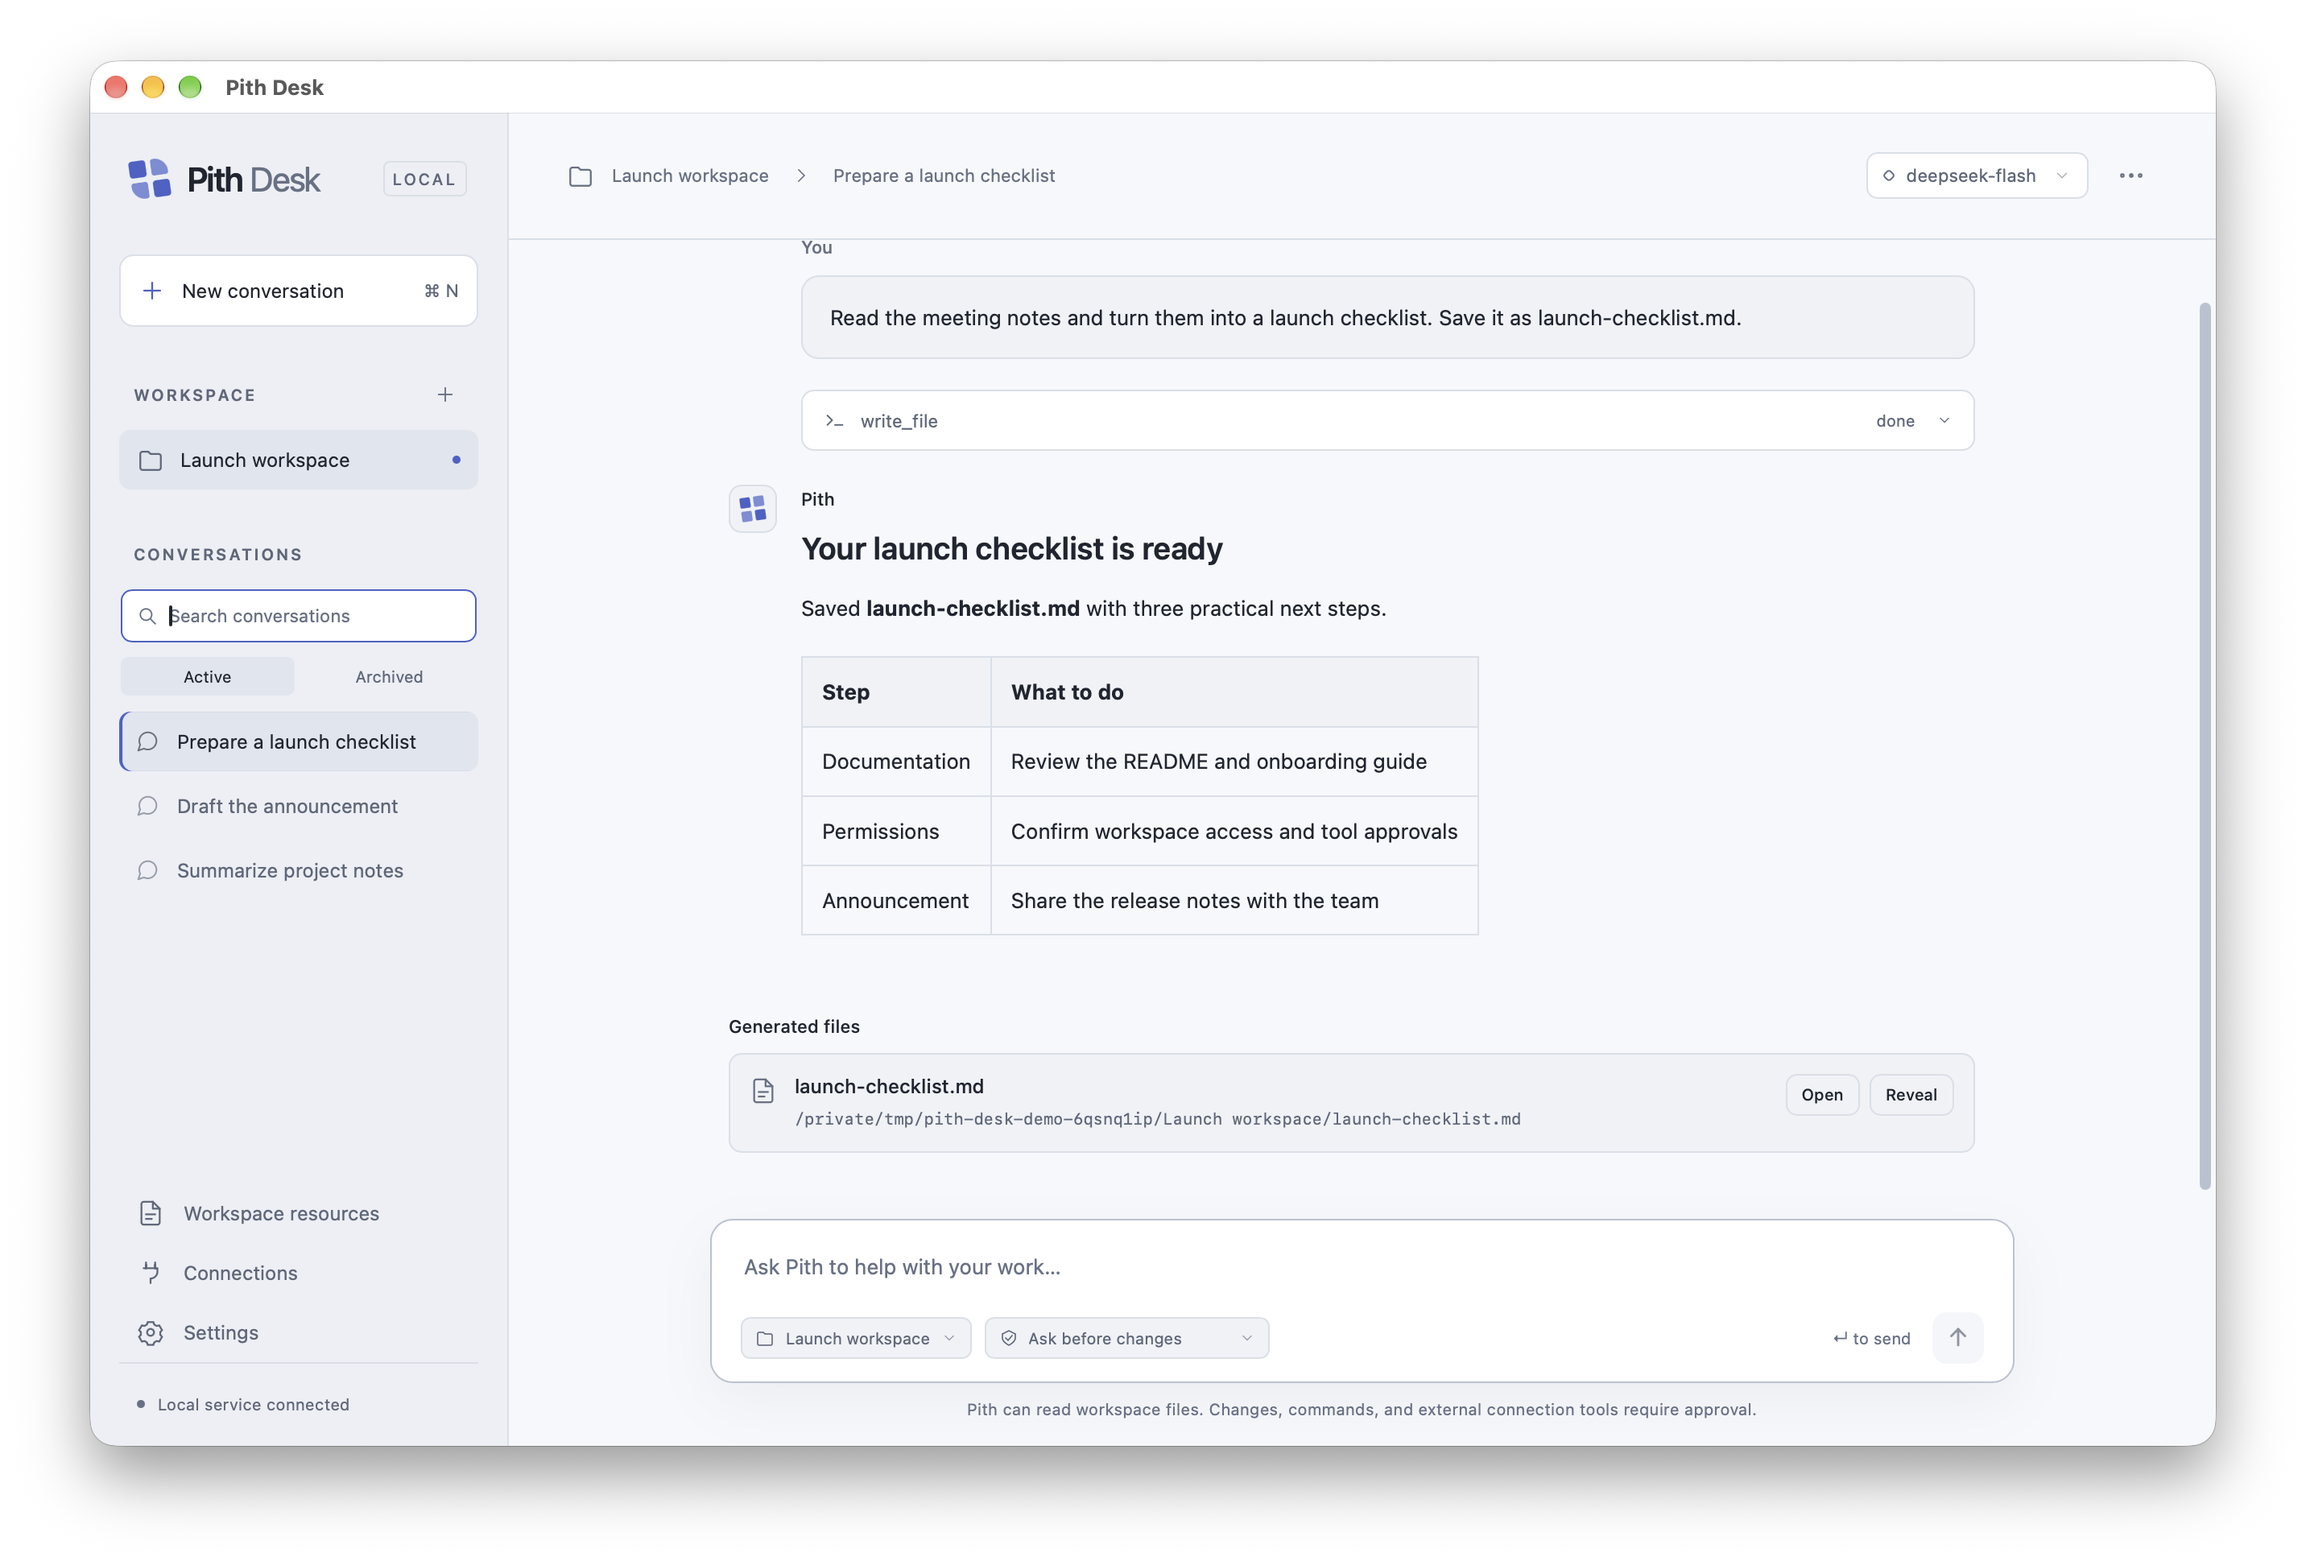
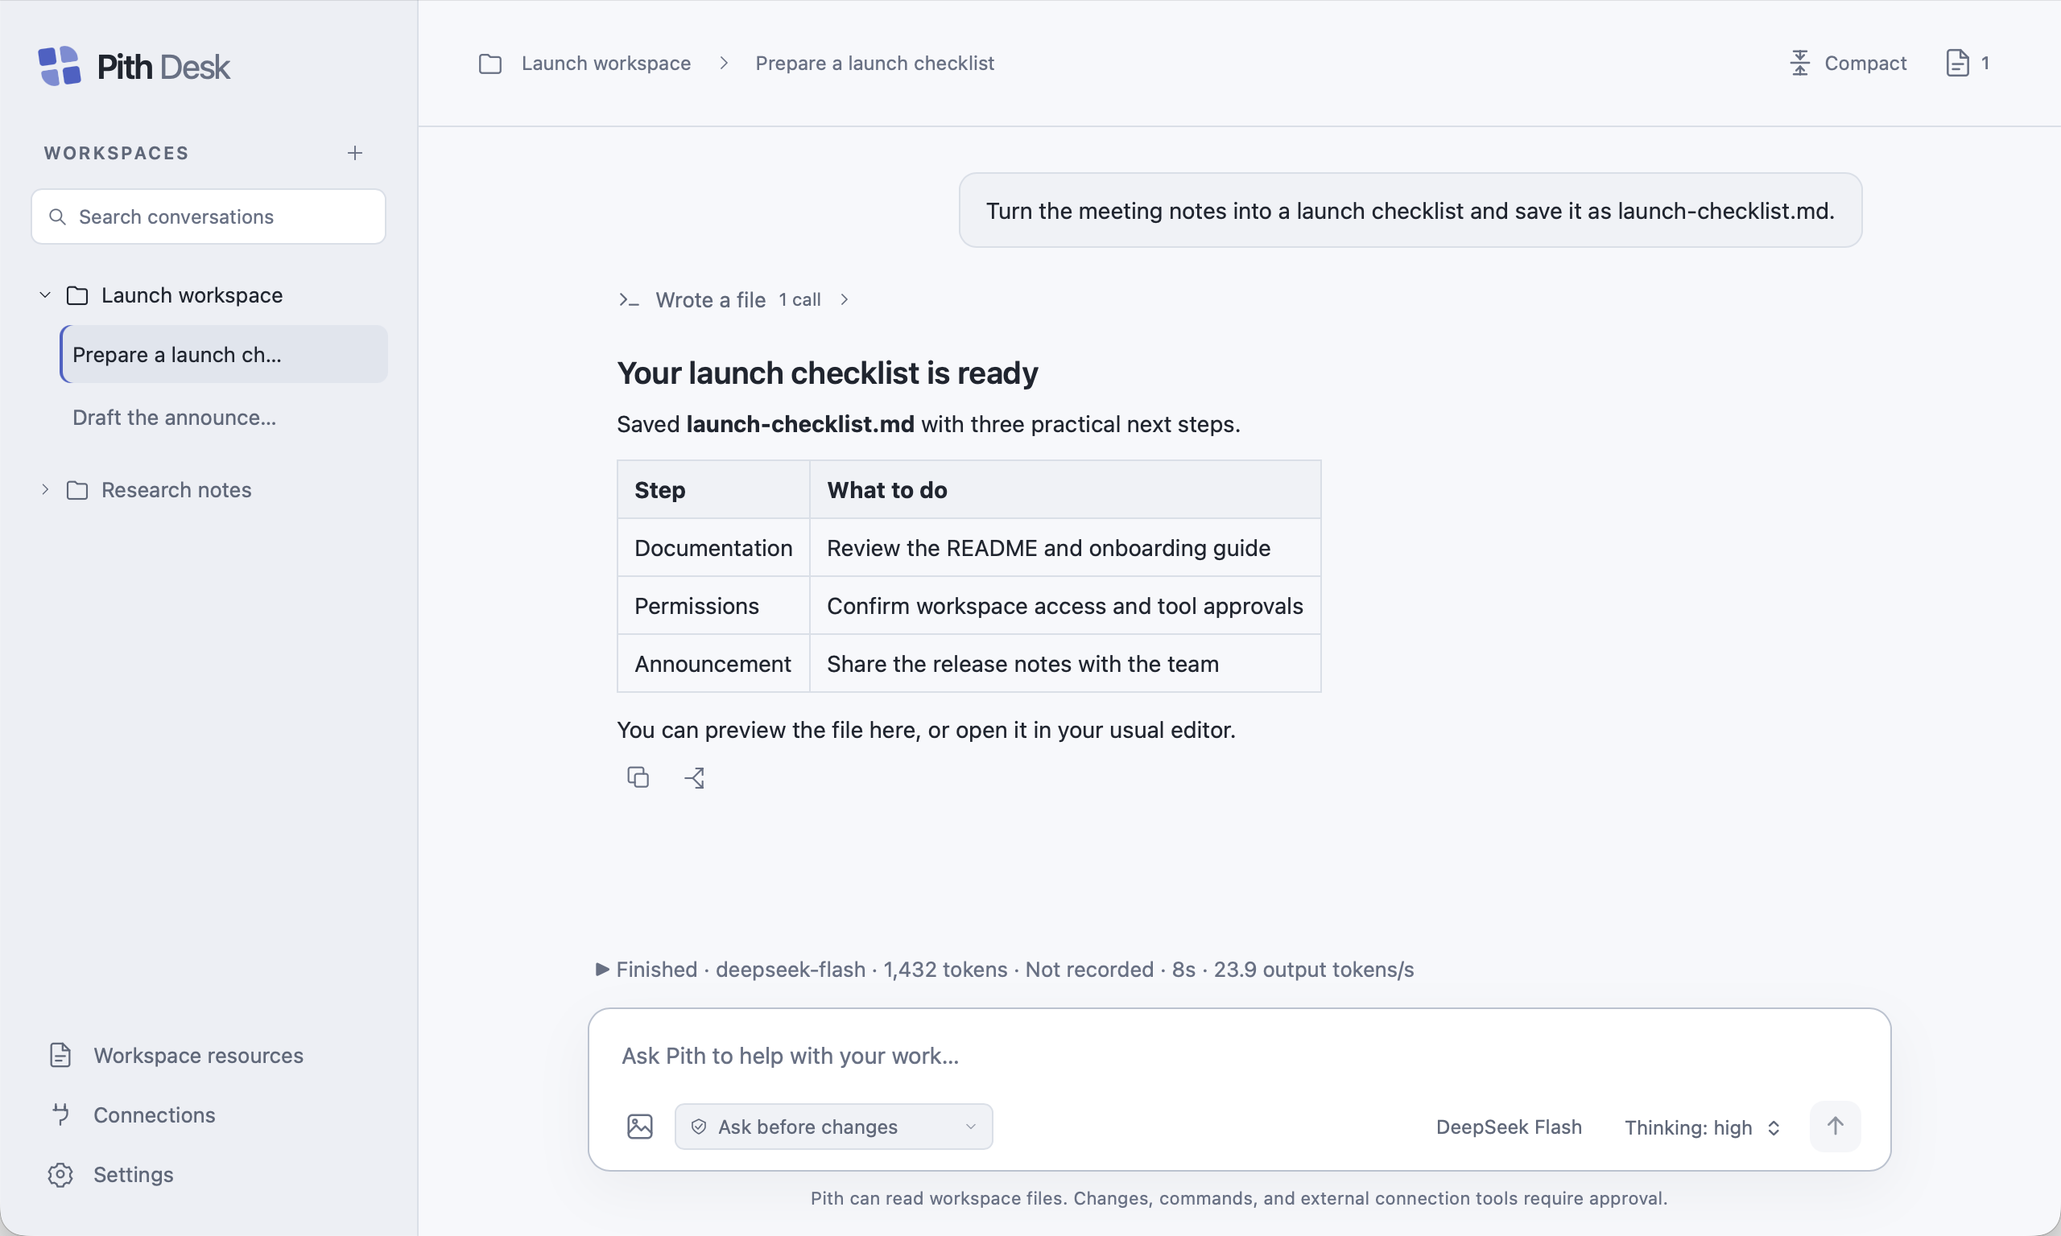
docs: refresh README and native desktop screenshots

diff --git a/README.md b/README.md
@@ -1,12 +1,18 @@
 # Pith Desk
 
-A local desktop workspace for getting things done with an AI agent. Pith Desk uses [Pith](https://github.com/minifish-org/pith) as a versioned Go library and [MyGo](https://github.com/egoist/mygo) for the native window. The interface is TypeScript. The product is a separate repository; agent behavior stays in the Pith SDK.
+A local desktop workspace for getting things done with an AI agent. Bring your model connection, choose a folder, and work through conversations, files and reviewed tool actions.
 
-This preview supports text and image conversations, workspace folders, streamed answers, guarded tools, instructions/skills/prompt templates, conversation branches, manual compression, deferred MCP discovery, Code mode, OAuth, durable task journals and request cost estimates. DeepSeek Flash is the default model. See [SDK integration](docs/SDK_FEATURES.md) for the reused capabilities and their boundaries. Provider selection, model capabilities, thinking levels and native request adapters come from Pith’s SDK. API-key connections include DeepSeek, OpenAI, Anthropic, Google, Mistral and compatible providers in its catalog.
+- **Workspace conversations:** streamed replies, text and image drafts, searchable history, branches and concurrent tasks in separate folders.
+- **Review before changes:** file diffs and tool approvals, with permission settings for each conversation.
+- **Files beside the conversation:** preview Markdown, text and images; open, reveal, copy or save workspace files.
+- **Your model connections:** provider API keys, supported OAuth flows, independent compatible endpoints and optional MCP tools. DeepSeek Flash is the default model.
+- **Task visibility:** pending messages, timing, usage and cost estimates, with interrupted tasks saved for review.
 
-![Pith Desk on macOS showing a workspace conversation, a tool result, and a generated Markdown file](docs/images/pith-desk-macos.png)
+Pith Desk uses [Pith](https://github.com/minifish-org/pith) as a versioned Go library and [MyGo](https://github.com/egoist/mygo) for the native macOS window, with a TypeScript interface. Agent behavior, provider adapters and model capabilities come from Pith. See [SDK integration](docs/SDK_FEATURES.md) for the reused capabilities and their boundaries.
 
-*The macOS desktop in Light appearance, using a demonstration workspace and conversation.*
+![Pith Desk on macOS in Light appearance, showing workspace conversations, a generated checklist and the model controls beside the composer](docs/images/pith-desk-macos.png)
+
+*Current macOS desktop in Light appearance. All screenshots use demonstration workspaces and conversation data.*
 
 ## Try it
 
@@ -65,6 +71,10 @@ Open **Settings → Appearance** to choose **Light**, **Dark**, or **Follow syst
 
 Appearance changes apply immediately, including during an agent task, and are saved in the local settings file for the next launch. Native window controls follow the same preference. Model settings and conversation permissions are independent of appearance.
 
+![Pith Desk in Dark appearance showing a file-edit diff awaiting approval](docs/images/pith-desk-dark-approval.png)
+
+*Dark appearance with a file change ready for review.*
+
 ### Conversation permissions
 
 Each new conversation starts with **Ask before changes**. Reads and searches can run without a prompt; file changes and commands need a decision.
@@ -102,28 +112,27 @@ Run metadata is saved beside the sessions. After an interrupted shutdown, the co
 
 The sidebar groups conversations under their workspace folders. Expand or collapse a folder, or use its new-conversation button to start a chat in that workspace. Search conversation titles across workspaces. Each conversation's `…` menu can rename, export or permanently delete that conversation without opening it first. Desktop exports open a native save dialog so you can choose the destination. Titles are recorded through Pith's session API; the desktop catalog indexes them.
 
-Text drafts are saved automatically in the private application data profile,
+Text and image drafts are saved automatically in the private application data profile,
 separately for each conversation. Switching conversations or restarting the
-app restores the text. A workspace with no conversation can retain its own
+app restores the draft. A workspace with no conversation can retain its own
 initial draft. Sending or queueing successfully clears only the submitted,
-unchanged text; a rejected request keeps it. Drafts are not sent to the model
+unchanged draft; a rejected request keeps it. Drafts are not sent to the model
 or added to the transcript until submitted. Removing a conversation or
 workspace also removes its drafts. Text drafts have an 8 MiB limit; image
-attachments retain their existing in-memory draft behavior.
+attachments use the upload limits described below.
 
-The rc.11 preview supports **concurrent tasks in separate workspace folders**. Add folders, create conversations and switch views while other tasks continue in the background. The sidebar marks each running conversation and shows when it needs approval. Stop, pending input, permissions and run statistics belong to that conversation. A workspace can run one task at a time; nested or overlapping workspace folders share that restriction. An occupied workspace offers **Open running conversation**. Global model, credential and MCP connection changes require all tasks to stop. See [workspace concurrency](docs/WORKSPACE_CONCURRENCY.md) for the execution contract and validation. Earlier previews retain the application-wide single-task restriction.
+Pith Desk supports **concurrent tasks in separate workspace folders**. Add folders, create conversations and switch views while other tasks continue in the background. The sidebar marks each running conversation and shows when it needs approval. Stop, pending input, permissions and run statistics belong to that conversation. A workspace can run one task at a time; nested or overlapping workspace folders share that restriction. An occupied workspace offers **Open running conversation**. Global model, credential and MCP connection changes require all tasks to stop. See [workspace concurrency](docs/WORKSPACE_CONCURRENCY.md) for the execution contract and validation.
 
-The rc.12 preview replaces the sidebar's text badges with a small blue spinning ring and an amber approval icon. The ring has a fixed gap and indicates activity, without estimating progress. A completed task leaves a blue unread dot until its conversation is viewed. Completion in another conversation shows an in-app notice; when the desktop app is in the background, it sends a silent macOS notification instead. Both offer navigation to the completed conversation. System notifications require OS permission and remain subject to Focus and screen-sharing rules. These indicators and notifications are not included in rc.11.
+The sidebar shows a small blue spinning ring for running tasks and an amber approval icon when a decision is needed. The ring indicates activity, without estimating progress. A completed task leaves a blue unread dot until its conversation is viewed. Completion in another conversation shows an in-app notice; when the desktop app is in the background, it sends a silent macOS notification instead. Both offer navigation to the completed conversation. System notifications require OS permission and remain subject to Focus and screen-sharing rules.
 
-The local source build retains notification targets across launches on macOS.
+The macOS app retains notification targets across launches.
 Clicking a valid older notification starts or activates the packaged app and
 opens its workspace conversation. Targets expire after 90 days, a newer
 completed run in the same conversation, or removal of the conversation/workspace;
 at most 512 are retained. An unavailable target shows a short explanation. macOS
 starts the normal application data profile; custom `--data-dir` profiles must be
 reopened with the same argument before clicking. The OS does not replay launch
-arguments. Linux and Windows notification backends support current-process
-clicks only.
+arguments.
 
 The native **File** menu provides **New Conversation** (`Cmd/Ctrl+N`),
 **Choose Workspace…** (`Cmd/Ctrl+O`) and **Export Current Conversation…**
@@ -167,6 +176,10 @@ text; smaller Markdown previews retain formatted rendering. HTML and SVG source
 appear as text; scripts and external images do not run in the preview. Use **Open** to view an animation or other
 file in its associated application. Preview reads the current recorded file
 through the same workspace checks as the existing file actions.
+
+![Pith Desk showing a rendered Markdown file in its file preview dialog](docs/images/pith-desk-file-preview.png)
+
+*Preview a generated file without leaving the conversation.*
 
 Drop existing files from the selected workspace into the message area to insert editable, workspace-relative paths. Multiple files, spaces and Chinese names are supported. These are plain Markdown path references; dropping them does not import or read their contents. Images keep their existing attachment behavior. Browser preview can validate complete local file URIs; when the browser hides the path, type the relative path or use the desktop app.
 
@@ -232,16 +245,12 @@ the selected model's image input.
 
 Accepted images are saved inside Pith's local session records, outside the
 workspace, and sent to your configured model provider. Unsent image attachments
-stay in memory and are cleared when you start or switch conversations; text
-drafts are saved separately. History previews
+are saved privately with the text draft and restored when you switch conversations
+or restart the app. History previews
 are fetched from the authenticated local service; image bytes are not included
 in every streaming state update. Guarded workspace image reading is also enabled
 for image-capable models. Markdown exports mark image attachments but do not
 embed their bytes.
-
-Download the
-[`v0.1.0-rc.15` Apple Silicon preview](https://github.com/minifish-org/pith-desk/releases/tag/v0.1.0-rc.15).
-
 
 ## Develop
 
@@ -280,8 +289,8 @@ The local build creates an application bundle under `build/`. It uses ad-hoc sig
 
 ```sh
 npm --prefix frontend run build
-CGO_ENABLED=0 go test ./...
-CGO_ENABLED=0 go vet ./...
+GOWORK=off CGO_ENABLED=0 go test ./...
+GOWORK=off CGO_ENABLED=0 go vet ./...
 ```
 
 Both Pith and MyGo are pinned in `go.mod`; applications build without a sibling checkout or a local Go replacement. Release checks use `GOWORK=off` to verify the versioned dependency. See [SDK dependency validation](docs/SDK_FEATURES.md#versioned-sdk-dependency). Node/npm are development tools only. The Mac window uses the system WKWebView, which may have its own helper processes.
@@ -301,7 +310,7 @@ See [testing and native smoke checks](docs/TESTING.md) for verification and a sh
 
 ## Current boundaries
 
-This is an experimental local desktop product. It has no computer-control tools, plugin marketplace, scheduled jobs, enterprise account system yet. Recovery requires user review and cannot roll back or deduplicate external effects.
+This is an experimental local desktop product. It has no built-in computer-control tools, plugin marketplace, scheduled jobs or enterprise account system yet. Recovery requires user review and cannot roll back or deduplicate external effects.
 
 Workspace checks are an application tool policy, **not an operating-system sandbox**. File tools reject paths outside the workspace. An approved command can access the computer with your account's permissions; examine it before allowing it. Model requests send the conversation and tool results to your configured provider. See [security and data handling](docs/SECURITY.md).
 
